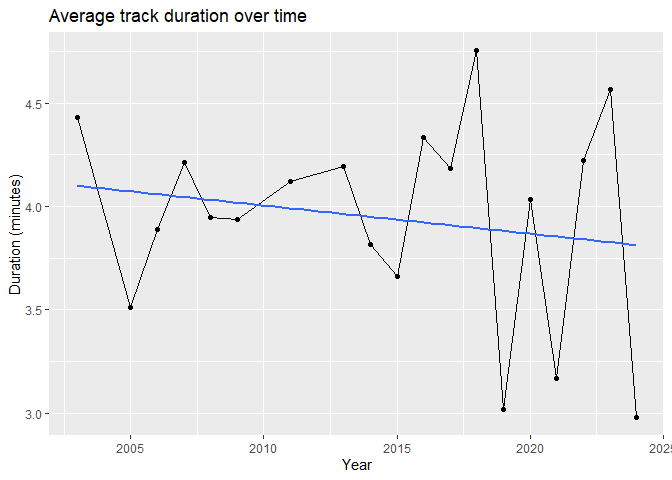
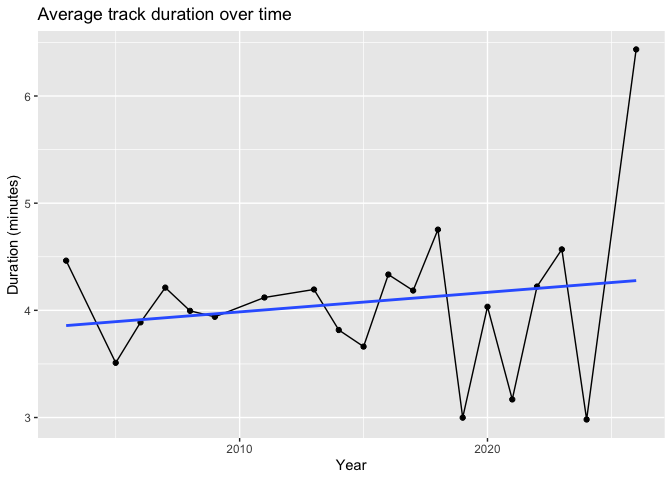
new change

diff --git a/docs/lectures/lecture-18-19.md b/docs/lectures/lecture-18-19.md
@@ -6,7 +6,7 @@ library(tidyverse)
 ```
 
     ── Attaching core tidyverse packages ──────────────────────── tidyverse 2.0.0 ──
-    ✔ dplyr     1.2.0     ✔ readr     2.2.0
+    ✔ dplyr     1.2.1     ✔ readr     2.2.0
     ✔ forcats   1.0.1     ✔ stringr   1.6.0
     ✔ ggplot2   4.0.2     ✔ tibble    3.3.1
     ✔ lubridate 1.9.5     ✔ tidyr     1.3.2
@@ -173,7 +173,7 @@ resp
     GET https://itunes.apple.com/search?term=beyonce&media=music&entity=song&limit=200
     Status: 200 OK
     Content-Type: text/javascript
-    Body: In memory (307905 bytes)
+    Body: In memory (307975 bytes)
 
 `request()` builds a request object. `req_url_query()` attaches query
 parameters as key-value pairs — no manual URL construction needed.
@@ -228,18 +228,18 @@ df
 ```
 
     # A tibble: 200 × 35
-       wrapperType kind  artistId collectionId    trackId artistName collectionName 
-       <chr>       <chr>    <int>        <int>      <int> <chr>      <chr>          
-     1 track       song   1419227    626204707  626205222 Beyoncé    4 (Expanded Ed…
-     2 track       song   1419227    626204707  626205875 Beyoncé    4 (Expanded Ed…
-     3 track       song   1419227    261707051  261707067 Beyoncé    B'Day (Deluxe …
-     4 track       song   1419227    626204707  626205216 Beyoncé    4 (Expanded Ed…
-     5 track       song   1419227    626204707  626205872 Beyoncé    4 (Expanded Ed…
-     6 track       song   1419227   1460430561 1460430756 Beyoncé    Lemonade       
-     7 track       song   1419227    296016891  296016893 Beyoncé    I AM...SASHA F…
-     8 track       song     15885    279724861  279724870 USHER      Love In This C…
-     9 track       song   1419227    296016891  296016901 Beyoncé    I AM...SASHA F…
-    10 track       song   1419227    626204707  626205217 Beyoncé    4 (Expanded Ed…
+       wrapperType kind  artistId collectionId    trackId artistName  collectionName
+       <chr>       <chr>    <int>        <int>      <int> <chr>       <chr>         
+     1 track       song     23393   1894021494 1894022117 Luther Van… Love, Luther  
+     2 track       song   1419227    626204707  626205222 Beyoncé     4 (Expanded E…
+     3 track       song   1419227    626204707  626205875 Beyoncé     4 (Expanded E…
+     4 track       song   1419227    261707051  261707067 Beyoncé     B'Day (Deluxe…
+     5 track       song   1419227    626204707  626205216 Beyoncé     4 (Expanded E…
+     6 track       song   1419227    626204707  626205872 Beyoncé     4 (Expanded E…
+     7 track       song   1419227    296016891  296016893 Beyoncé     I AM...SASHA …
+     8 track       song   1419227   1460430561 1460430756 Beyoncé     Lemonade      
+     9 track       song     15885    279724861  279724870 USHER       Love In This …
+    10 track       song   1419227    296016891  296016902 Beyoncé     I AM...SASHA …
     # ℹ 190 more rows
     # ℹ 28 more variables: trackName <chr>, collectionCensoredName <chr>,
     #   trackCensoredName <chr>, artistViewUrl <chr>, collectionViewUrl <chr>,